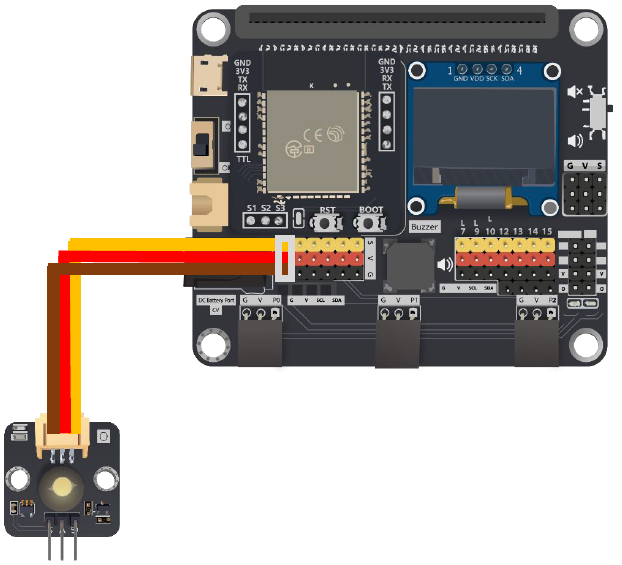
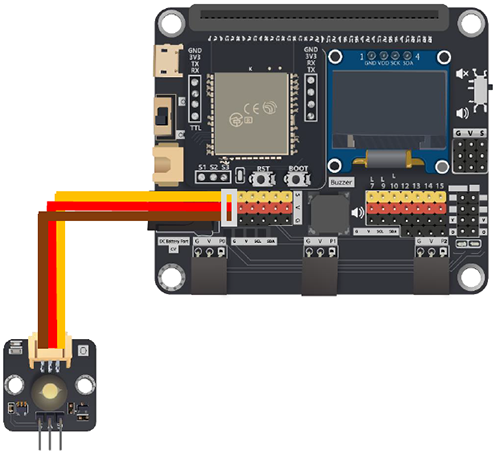
update ch4 pic

diff --git a/docs/smartcity/chapter4.md b/docs/smartcity/chapter4.md
@@ -34,7 +34,7 @@ The below example is to turn on the light at 6 pm every day.<BR><P>
 
 <span id="subtitle" >Connection Diagram:</span><BR>
 * Connect LED to P0<BR><P>
-![auto_fit](images/Ch4/Ch4_hardware.png)<P>
+![auto_fit](images/Ch4/Ch4_2_hardware.png)<P>
 
 <span id="subtitle" >Step 1: Connect WiFi</span><BR><P>
 Before we try to use WiFi Control function, we need to connect to the network, we have already know how to connect to the WiFi on the first chapter.<P>
